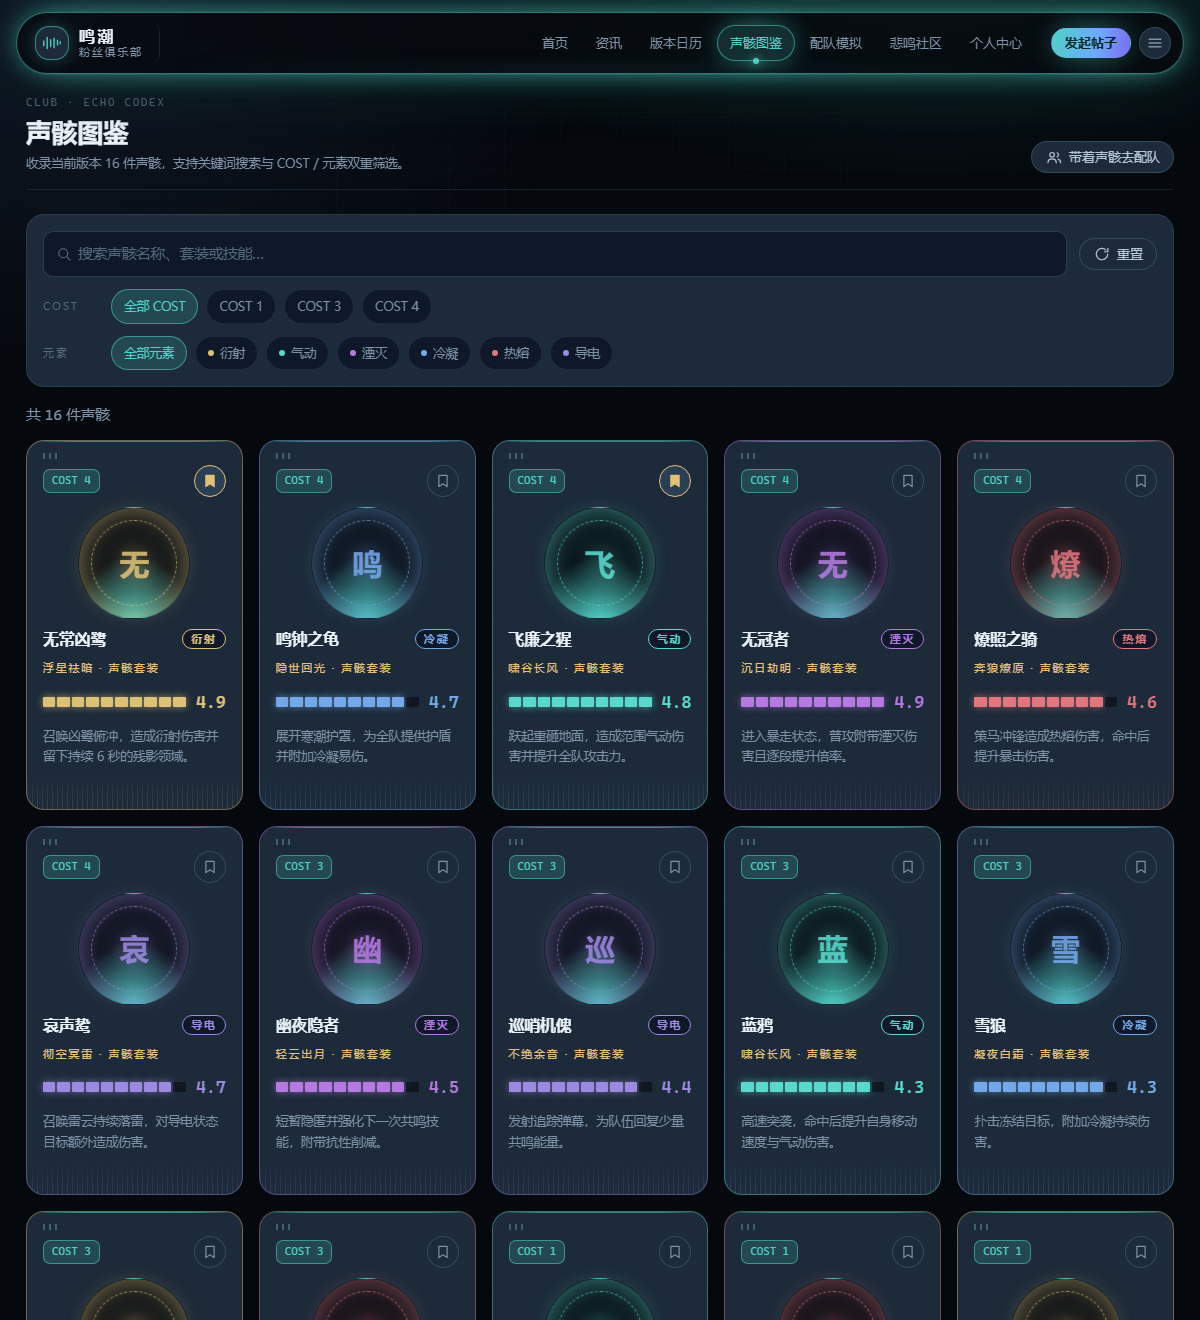
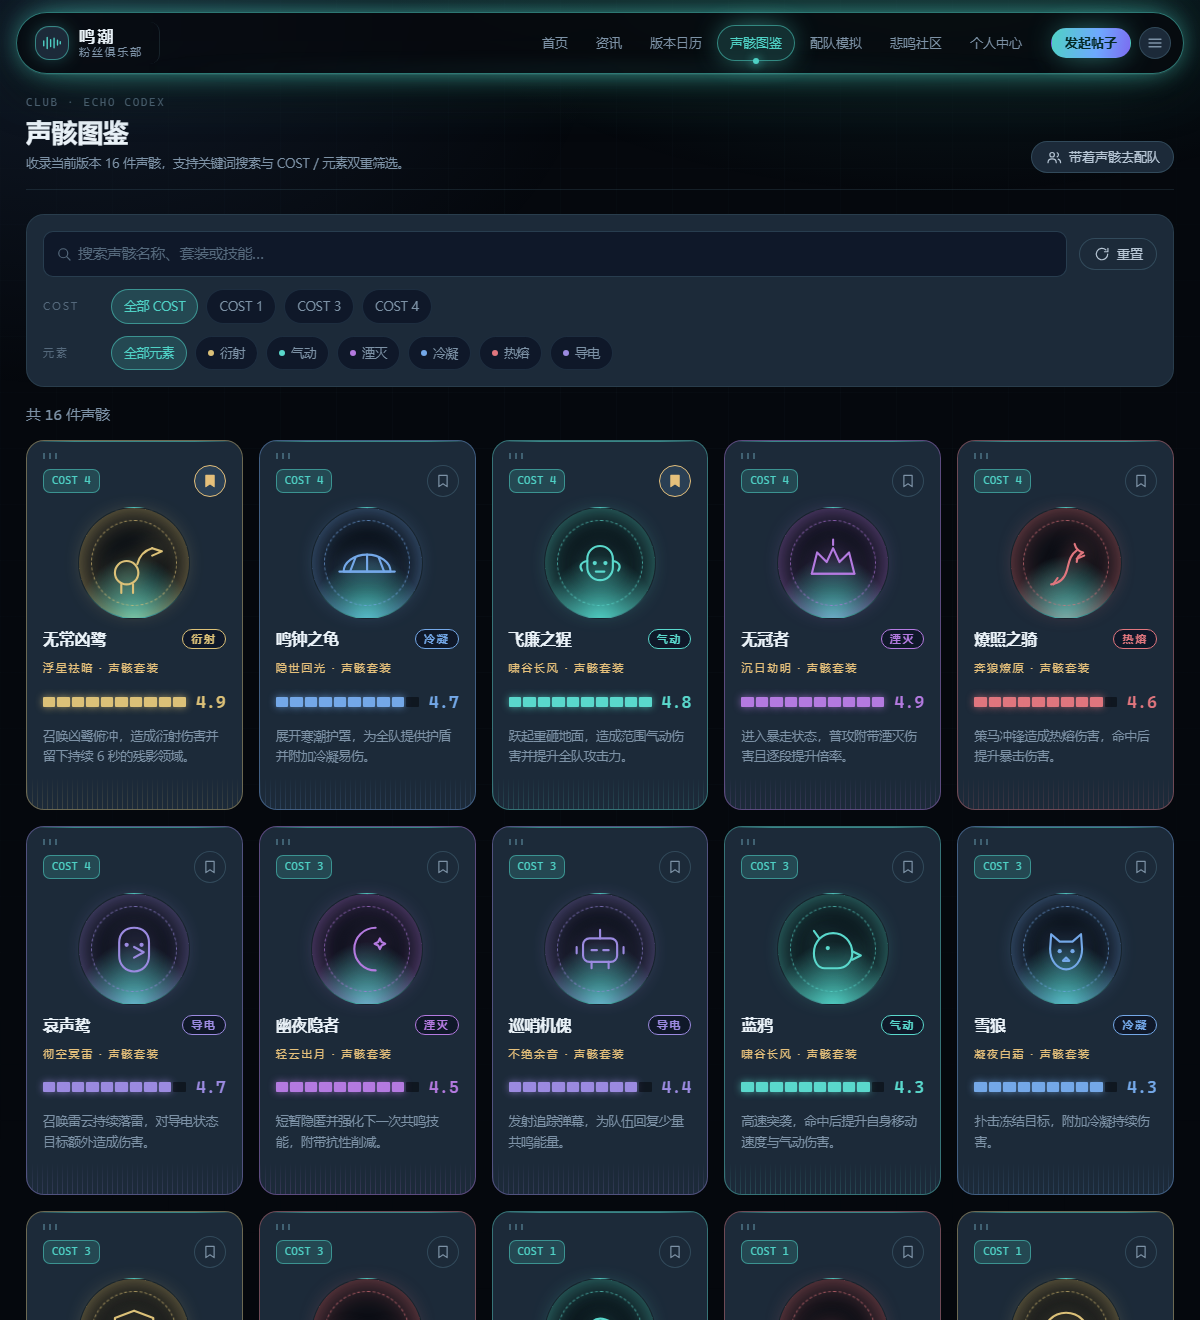
feat(ui): 为声骸图鉴卡加入 16 枚专属线稿头像
背景：卡片符印此前用「首字占位」（一个汉字），信息量低且不成体系。
受「禁止外部图片 / 单文件零依赖」硬约束，改用内联 SVG 线稿徽记实现头像，
不引入任何图片资源（外部引用数仍为 0）。

实现：
- 新增 EMBLEMS 映射与 emblemSVG()：16 枚 64×64 网格线稿，stroke 走 currentColor，
  由 --el 元素色统一着色，配同色 drop-shadow 辉光
  · 无常凶鹭=长颈涉禽、鸣钟之龟=龟甲穹顶、飞廉之猩=猿面、无冠者=碎裂王冠
  · 燎照之骑=炽焰、哀声鸷=猛禽首、幽夜隐者=残月与星、巡哨机傀=机械颅
  · 蓝鸦=鸦首、雪狼=狼首、磐石守卫=护盾晶核、绿熔蜥蜴=蜥形
  · 呼咻咻=旋风、熔山裂谷=山脊裂隙、咕咕伞=伞盖、阿嗞嗞=电球
- 卡片符印、详情模态、个人中心收藏列表三处统一使用同一枚徽记
- 移除已无用的 .echo__initial 样式

质量验证：新增 tools/emblem-sheet.js 生成 16 枚对照表并放大逐枚评估，
首版中「无常凶鹭」呈乱线、「绿熔蜥蜴」不可辨，已重画（前者改为圆身+长颈+直喙+细腿，
后者改为头+脊+长尾+四足）；其余 14 枚辨识度达标。
同步更新归档截图 design/refs/shots/04-wiki.png。

约束：:root 之外 0 裸色值，1206 处 var()，外部引用 0。

diff --git a/index.html b/index.html
@@ -603,7 +603,6 @@ textarea.input{min-height:calc(var(--sp-8) + var(--sp-5));resize:vertical;line-h
   background:radial-gradient(70% 90% at 50% 104%,var(--el),transparent 72%),var(--surface-sunken);
   border:var(--bw-1) solid var(--stroke-subtle);
 }
-.echo__initial{font-size:var(--fs-2xl);color:var(--text-high);font-weight:600;opacity:.9}
 .echo__name{display:flex;align-items:center;justify-content:space-between;gap:var(--sp-2);font-size:var(--fs-h3)}
 .echo__set{font-size:var(--fs-micro);color:var(--tide-gold);letter-spacing:var(--ls-caps)}
 .echo__skill{font-size:var(--fs-caption);color:var(--text-muted);overflow-wrap:anywhere}
@@ -1047,11 +1046,14 @@ textarea.input{min-height:calc(var(--sp-8) + var(--sp-5));resize:vertical;line-h
   -webkit-mask-image:radial-gradient(circle,transparent 0 70%,var(--mask-solid) 71% 74%,transparent 75%);
   mask-image:radial-gradient(circle,transparent 0 70%,var(--mask-solid) 71% 74%,transparent 75%);
 }
-.echo__initial{
-  position:relative;font-size:var(--fs-2xl);font-weight:600;
+/* 声骸徽记：元素色线稿头像，带同色辉光 */
+.echo__glyph{
+  position:relative;width:62%;height:62%;
   color:var(--el,var(--resonance));
-  text-shadow:0 0 var(--sp-5) var(--el,var(--resonance));
+  filter:drop-shadow(0 0 var(--sp-2h) var(--el,var(--resonance)));
 }
+.echo__glyph--lg{width:var(--sigil-size);height:var(--sigil-size);max-width:64%}
+.chip-mark .echo__glyph{width:74%;height:74%;filter:none}
 .segs{display:flex;align-items:center;gap:var(--sp-2h);width:100%}
 .segs__track{display:flex;gap:var(--bw-2);flex:1 1 auto;min-width:0}
 .segs__seg{flex:1 1 0;min-width:0;height:var(--seg-h);border-radius:var(--bw-1);background:var(--track)}
@@ -1334,6 +1336,76 @@ function icon(name, cls){
   var body = ICONS[name] || '';
   return '<svg class="icon ' + (cls||'') + '" viewBox="0 0 24 24" fill="none" stroke="currentColor" ' +
          'stroke-width="1.6" stroke-linecap="round" stroke-linejoin="round" aria-hidden="true">' + body + '</svg>';
+}
+
+/* ---------------------------------------------------------------------------
+   1b · 声骸徽记（每件声骸一枚专属线稿头像）
+   全部为内联 SVG 路径：不引入任何外部图片，符合单文件零依赖交付约束。
+   统一 64×64 网格、stroke 走 currentColor（由 --el 元素色驱动）。
+   --------------------------------------------------------------------------- */
+var EMBLEMS = {
+  /* 无常凶鹭 · 长颈涉禽（圆身 + 长颈 + 直喙 + 细腿） */
+  e1:'<circle cx="25" cy="41" r="11"/><path d="M35 33c2-8 7-13 14-15"/>' +
+     '<path d="M49 18l9 3-9 4"/><path d="M20 52v8M31 52v8"/>',
+  /* 鸣钟之龟 · 龟甲穹顶 */
+  e2:'<path d="M10 40a22 16 0 0 1 44 0z"/><path d="M6 40h52"/>' +
+     '<path d="M32 24v16M21 27l-5 13M43 27l5 13"/>',
+  /* 飞廉之猩 · 猿面 */
+  e3:'<path d="M20 28a12 12 0 0 1 24 0v8a12 12 0 0 1-24 0z"/>' +
+     '<path d="M20 30c-6 1-8 5-5 9M44 30c6 1 8 5 5 9"/><path d="M28 40h8"/>' +
+     '<circle cx="27" cy="32" r="2" fill="currentColor" stroke="none"/>' +
+     '<circle cx="37" cy="32" r="2" fill="currentColor" stroke="none"/>',
+  /* 无冠者 · 碎裂王冠 */
+  e4:'<path d="M12 42l5-20 9 9 6-13 6 13 9-9 5 20z"/><path d="M12 42h40"/><path d="M32 10v5"/>',
+  /* 燎照之骑 · 炽焰蹄铁 */
+  e5:'<path d="M18 52c8-1 13-6 15-14s3-14 9-18"/><path d="M24 46l-4 6M42 28l7-3"/>' +
+     '<path d="M40 14c1 4 4 7 8 8-4 2-6 5-6 9"/>',
+  /* 哀声鸷 · 猛禽首 */
+  e6:'<path d="M18 26c0-9 6-14 14-14s14 5 14 14v12c0 9-6 15-14 15s-14-6-14-15z"/>' +
+     '<path d="M32 30l9 5-9 5"/>' +
+     '<circle cx="25" cy="28" r="2" fill="currentColor" stroke="none"/>' +
+     '<circle cx="39" cy="28" r="2" fill="currentColor" stroke="none"/>',
+  /* 幽夜隐者 · 残月与星 */
+  e7:'<path d="M40 12a20 20 0 1 0 0 40 16 16 0 0 1 0-40z"/>' +
+     '<path d="M44 22l1.6 3.4 3.4 1.6-3.4 1.6L44 32l-1.6-3.4L39 27l3.4-1.6z"/>',
+  /* 巡哨机傀 · 机械颅 */
+  e8:'<rect x="16" y="22" width="32" height="22" rx="6"/><path d="M24 33h5M35 33h5"/>' +
+     '<path d="M32 22v-8M24 44v6M40 44v6M10 30v6M54 30v6"/>',
+  /* 蓝鸦 · 鸦首 */
+  e9:'<path d="M14 36c0-11 8-19 18-19s18 8 18 19c0 8-6 14-14 14H24c-6 0-10-6-10-14z"/>' +
+     '<path d="M50 34l8 4-8 4"/><path d="M19 22l-5-7"/>' +
+     '<circle cx="27" cy="31" r="2" fill="currentColor" stroke="none"/>',
+  /* 雪狼 · 狼首 */
+  e10:'<path d="M18 18l-1 14c0 11 7 19 15 19s15-8 15-19l-1-14-8 7H26z"/>' +
+      '<path d="M32 40l-3 3h6z"/>' +
+      '<circle cx="26" cy="34" r="2" fill="currentColor" stroke="none"/>' +
+      '<circle cx="38" cy="34" r="2" fill="currentColor" stroke="none"/>',
+  /* 磐石守卫 · 护盾与晶核 */
+  e11:'<path d="M32 10l18 7v13c0 11-8 19-18 22-10-3-18-11-18-22V17z"/>' +
+      '<path d="M32 22l7 8-7 12-7-12z"/>',
+  /* 绿熔蜥蜴 · 蜥形（头 + 脊 + 长尾 + 四足） */
+  e12:'<circle cx="15" cy="38" r="6"/><path d="M21 40h17"/><path d="M38 40c6-1 10-5 13-11"/>' +
+      '<path d="M25 40l-4 9M34 40l-4 9"/>' +
+      '<circle cx="13" cy="36" r="1.4" fill="currentColor" stroke="none"/>',
+  /* 呼咻咻 · 旋风 */
+  e13:'<path d="M33 32c0-5 7-6 8-1s-7 10-13 7-9-13-3-18 19-2 21 7"/>' +
+      '<path d="M12 44c7 4 15 6 22 6"/>',
+  /* 熔山裂谷 · 山脊裂隙 */
+  e14:'<path d="M8 48l14-26 7 11 6-9 13 24z"/><path d="M29 33l-6 15M23 48h12"/>' +
+      '<path d="M36 22l3 5"/>',
+  /* 咕咕伞 · 伞盖 */
+  e15:'<path d="M10 34a22 22 0 0 1 44 0z"/><path d="M32 34v14a5 5 0 0 0 10 0"/>' +
+      '<path d="M22 34c0-8 4-14 10-14s10 6 10 14"/>',
+  /* 阿嗞嗞 · 电球 */
+  e16:'<circle cx="32" cy="32" r="11"/>' +
+      '<path d="M32 13V6M32 58v-7M13 32H6M58 32h-7"/><path d="M36 22l-9 12h9l-5 12"/>'
+};
+function emblemSVG(id, cls){
+  var body = EMBLEMS[id];
+  if(!body) return '';
+  return '<svg class="echo__glyph ' + (cls || '') + '" viewBox="0 0 64 64" fill="none" ' +
+         'stroke="currentColor" stroke-width="2" stroke-linecap="round" stroke-linejoin="round" ' +
+         'aria-hidden="true">' + body + '</svg>';
 }
 
 /* ==========================================================================
@@ -1825,7 +1897,7 @@ function echoCard(e){
         ' data-focus="fav-' + e.id + '" aria-pressed="' + fav + '" aria-label="' + (fav ? '取消收藏 ' : '收藏 ') + esc(e.name) + '">' +
         icon('bookmark') + '</button>' +
     '</div>' +
-    '<div class="echo__sigil" aria-hidden="true"><span class="echo__initial">' + esc(e.name.slice(0,1)) + '</span></div>' +
+    '<div class="echo__sigil" aria-hidden="true">' + emblemSVG(e.id) + '</div>' +
     '<h3 class="echo__name">' + esc(e.name) +
       '<span class="tag tag--elem" style="--el:' + elemVar(e.element) + '">' + elemLabel(e.element) + '</span></h3>' +
     '<p class="echo__set">' + esc(e.set) + ' · 声骸套装</p>' +
@@ -2154,7 +2226,7 @@ function viewUser(s, u){
     if(ECHO_BY_ID[id]){
       var e = ECHO_BY_ID[id];
       return '<div class="fav-item" style="--el:' + elemVar(e.element) + '">' +
-        '<span class="chip-mark" aria-hidden="true">' + esc(e.name.slice(0,1)) + '</span>' +
+        '<span class="chip-mark" aria-hidden="true">' + emblemSVG(e.id) + '</span>' +
         '<span><span class="fav-item__name">' + esc(e.name) + '</span>' +
         '<span class="fav-item__meta">声骸 · COST ' + e.cost + ' · ' + elemLabel(e.element) + ' · 评级 <span class="num">' + e.rating.toFixed(1) + '</span></span></span>' +
         '<button class="icon-btn" type="button" data-act="fav-remove" data-id="' + id + '" data-focus="favrm-' + id + '" aria-label="移除收藏 ' + esc(e.name) + '">' + icon('trash') + '</button>' +
@@ -2437,7 +2509,7 @@ function openEcho(id){
     sub:'COST ' + e.cost + ' · ' + elemLabel(e.element) + ' · ' + e.set,
     title:esc(e.name),
     body:'<div class="echo__art" style="--el:' + elemVar(e.element) + ';height:calc(var(--sp-8) + var(--sp-7))" aria-hidden="true">' +
-           '<span class="echo__initial">' + esc(e.name.slice(0,1)) + '</span></div>' +
+           emblemSVG(e.id, 'echo__glyph--lg') + '</div>' +
          '<div class="detail-grid">' +
            '<div class="stat"><span class="stat__value">' + e.cost + '</span><span class="stat__label">COST</span></div>' +
            '<div class="stat"><span class="stat__value">' + e.rating.toFixed(1) + '</span><span class="stat__label">共鸣评级</span></div>' +

diff --git a/tools/emblem-sheet.js b/tools/emblem-sheet.js
@@ -1,0 +1,66 @@
+// tools/emblem-sheet.js
+// 声骸徽记对照表生成器：把 index.html 里的 16 枚内联 SVG 徽记渲染成一页网格，
+// 便于并排检查造型辨识度与元素配色（改完徽记后跑一次，用浏览器打开即可）。
+//
+// 用法：
+//   node tools/emblem-sheet.js
+//   # 产物：dist-artifacts/emblem-sheet.html（已被 .gitignore 忽略）
+//
+// 注意：徽记是内联 SVG 而非图片资源，因此无法用普通图片查看器检查；
+//       整页截图里的符印只有约 70px，细节看不清，故用本工具放大并排比。
+
+const fs = require('fs');
+const path = require('path');
+
+const root = path.join(__dirname, '..');
+const html = fs.readFileSync(path.join(root, 'index.html'), 'utf8');
+const code = html.match(/<script>([\s\S]*?)<\/script>/)[1];
+
+const elBlock = code.match(/var ELEMENTS = \{[\s\S]*?\n\};/)[0];
+const ecBlock = code.match(/var ECHOES = \[[\s\S]*?\n\];/)[0];
+const embBlock = code.match(/var EMBLEMS = \{[\s\S]*?\n\};/)[0];
+
+const sandbox = {};
+new Function('g', elBlock + '\n' + ecBlock + '\n' + embBlock +
+  '\ng.ELEMENTS=ELEMENTS;g.ECHOES=ECHOES;g.EMBLEMS=EMBLEMS;')(sandbox);
+const { ELEMENTS, ECHOES, EMBLEMS } = sandbox;
+
+const missing = ECHOES.filter(e => !EMBLEMS[e.id]).map(e => e.id);
+if (missing.length) {
+  console.error('以下声骸缺少徽记，会在卡片上留空：' + missing.join(', '));
+  process.exitCode = 1;
+}
+
+const tiles = ECHOES.map(e => {
+  const el = ELEMENTS[e.element];
+  const svg = '<svg viewBox="0 0 64 64" fill="none" stroke="currentColor" stroke-width="2" ' +
+    'stroke-linecap="round" stroke-linejoin="round">' + (EMBLEMS[e.id] || '') + '</svg>';
+  return '<figure style="--el:var(' + el.v + ')"><div class="sig">' + svg + '</div>' +
+    '<figcaption>' + e.id + ' · ' + e.name + '<em>' + el.label + ' · COST ' + e.cost + '</em></figcaption></figure>';
+}).join('');
+
+const css = [
+  ':root{--elem-diffraction:#dcc178;--elem-aero:#5ad8cc;--elem-havoc:#b47ae0;',
+  '--elem-glacio:#74a8e8;--elem-fusion:#e0767e;--elem-electro:#9b8ae0}',
+  'body{margin:0;padding:16px;background:#0b1220;color:#b8c7d6;',
+  'font:12px/1.4 "Microsoft YaHei",system-ui,sans-serif}',
+  'main{display:grid;grid-template-columns:repeat(4,1fr);gap:12px}',
+  'figure{margin:0;display:grid;justify-items:center;gap:8px;padding:10px;',
+  'border:1px solid rgba(120,180,200,.2);border-radius:16px;background:#111c2b}',
+  '.sig{display:grid;place-items:center;width:132px;height:132px;border-radius:999px;',
+  'background:radial-gradient(78% 92% at 50% 106%,var(--el),transparent 68%),#080d14;',
+  'border:1px solid rgba(120,180,200,.18)}',
+  '.sig svg{width:62%;height:62%;color:var(--el);filter:drop-shadow(0 0 10px var(--el))}',
+  'figcaption{text-align:center;color:#eaf2f8;font-size:13px}',
+  'figcaption em{display:block;font-style:normal;color:#7d92a6;font-size:11px;margin-top:2px}'
+].join('');
+
+const page = '<!DOCTYPE html><html lang="zh-CN"><head><meta charset="utf-8">' +
+  '<title>声骸徽记对照表</title><style>' + css + '</style></head><body><main>' +
+  tiles + '</main></body></html>';
+
+const outDir = path.join(root, 'dist-artifacts');
+fs.mkdirSync(outDir, { recursive: true });
+const outFile = path.join(outDir, 'emblem-sheet.html');
+fs.writeFileSync(outFile, page, 'utf8');
+console.log('已生成 ' + ECHOES.length + ' 枚徽记对照表：' + outFile);

diff --git a/README.md b/README.md
@@ -262,9 +262,10 @@ mingdemo/
 ├── DESIGN_PROMPTS.md       # 界面 UI 组件生图提示词包（风格基准图 → 回灌 CSS 的完整工作流）
 ├── PUSH_TO_GITHUB.md       # 本机 GitHub 加速链路（Watt Toolkit）的推送指南与故障排查对照表
 ├── .gitignore              # 忽略 dist-artifacts/ 与参考图本体
-├── design/refs/            # 风格参考图放置目录（含命名约定，图片不入库）
+├── design/refs/            # 风格参考图与渲染截图（shots/ 入库，AI 参考图不入库）
 └── tools/
-    └── push-github.ps1     # 推送加固脚本：环境探测 → 连通性预检 → 加固参数推送 → 失败自动 bundle 兜底
+    ├── push-github.ps1     # 推送加固脚本：环境探测 → 连通性预检 → 加固参数推送 → 失败自动 bundle 兜底
+    └── emblem-sheet.js     # 声骸徽记对照表生成器：并排检查 16 枚内联 SVG 徽记的造型与配色
 ```
 
 站点本身仍是**单文件零依赖**：`index.html` 之外的文件都只是开发与运维辅助，不参与页面运行，
